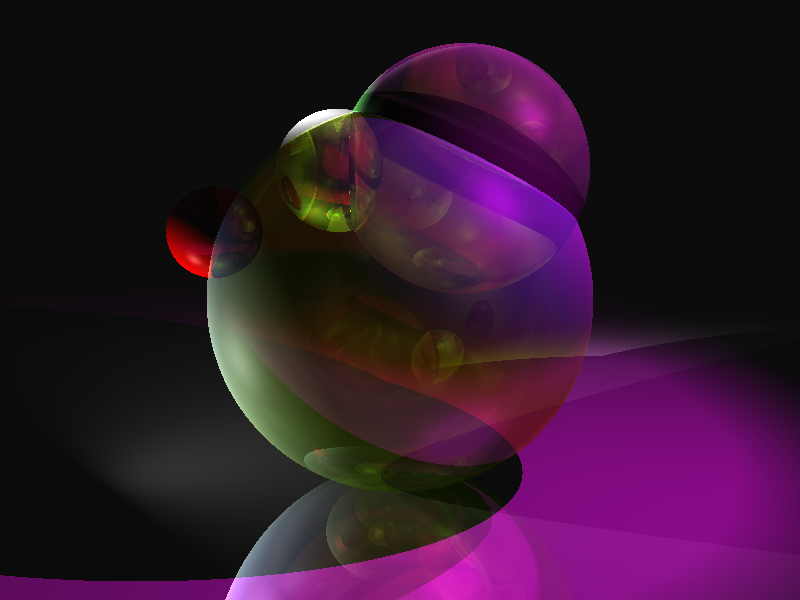
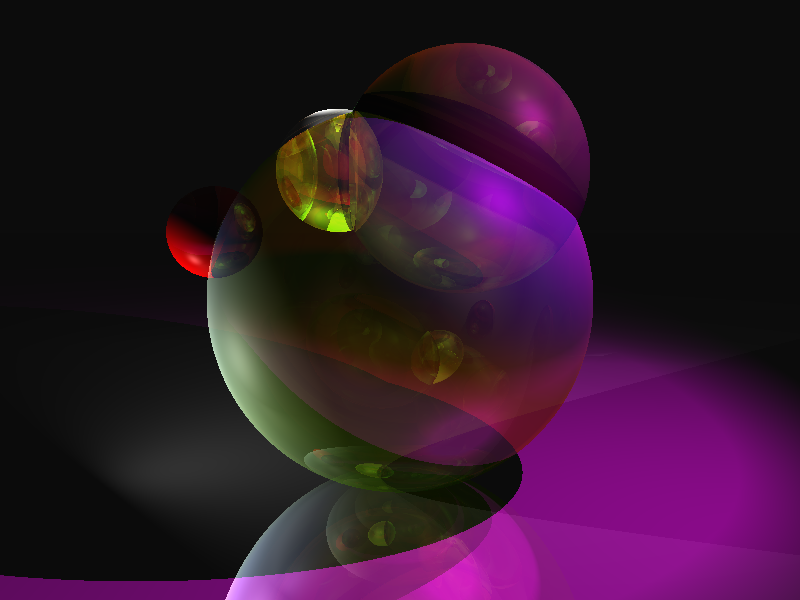
minor changes to nested_sphere.txt

diff --git a/index.md b/index.md
@@ -3,7 +3,7 @@
 {:toc}
 
 <image src="myExampleScenes/nested_sphere.png" style="width: 90%;"></image>
-This image can be rendered by running `.\a.exe .\myExampleScenes\nested_sphere.txt` in the command line with the project folder as the working directory. This is a scene file I wrote which includes four spheres, the three in the center overlap and the one on the left does not. It is lit by three spot lights, two are white and point from the top and bottom left towards the scene, and one is purple pointing from the top right. This image is 
+This image can be rendered by running `.\a.exe .\myExampleScenes\nested_sphere.txt` in the command line with the project folder as the working directory. This is a scene file I wrote which includes four spheres, the three in the center overlap and the one on the left does not. It is lit by three spot lights, two are white and point from the top and bottom left towards the scene, and one is purple pointing from the top right. This image is a great example of refraction. The large sphere in the middle has an index of refraction of 1, the same as the air, which is why the images of the two spheres inside of it are not distorted. The inner right sphere has an IOR of 1.3, which causes the image of the left sphere intersecting it to distort. We can also see the parameters of spot lights at work here, as the top left spotlight has a much smaller inner cone of light (5 degrees) with less of an angle of gradual falloff (10 degrees) than the other two, which have inner angles of 45 degrees and outer angles of 60 and 90 degrees.
 
 
 # Project Files
